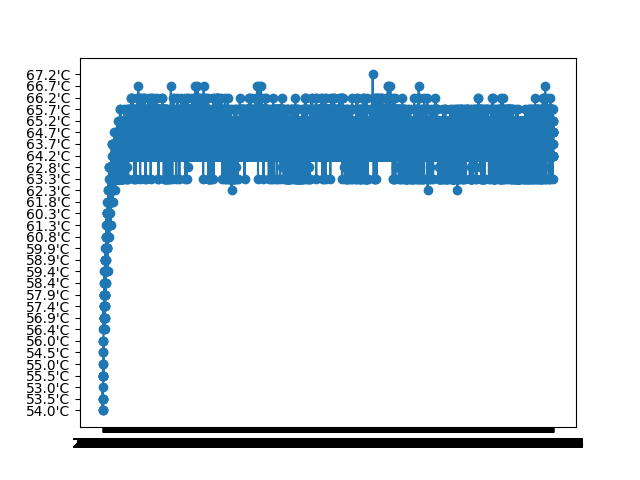
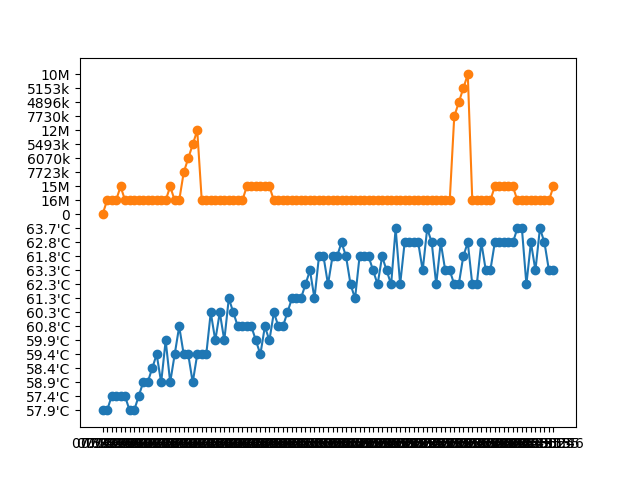
add

Changed region(s): [[0.0938, 0.125, 0.9062, 0.9375], [0.0312, 0.125, 0.125, 0.875]]

diff --git a/checker.py b/checker.py
@@ -8,8 +8,8 @@ import sys
 
 import subprocess
 
-command_str = ["iperf3 -c 192.168.100.3 -t 100 -u -b 1GB"] 
-test_command_pd = subprocess.Popen(command_str, shell=True, stdin=subprocess.PIPE, stdout=subprocess.PIPE, text=True)
+#command_str = ["iperf3 -c 192.168.100.3 -t 100 -u -b 1GB"] 
+#test_command_pd = subprocess.Popen(command_str, shell=True, stdin=subprocess.PIPE, stdout=subprocess.PIPE, text=True)
 
 
 def main():
@@ -68,10 +68,10 @@ def main():
         fp.write("{},{},{},{},{},{},{},{},{},{},{}\n".format(datetime.now().strftime('%H:%M:%S'), temp, cpu[0],cpu[1],cpu[2],cpu[3],clock, volts, memory_percent, dstat_json["net"]["recv"], dstat_json["net"]["send"]))
         fp.close()
         #print(test_command_pd.poll())
-        if(test_command_pd.poll()==0):
-           proc.kill()
-           time.sleep(1) 
-           sys.exit()
+        #if(test_command_pd.poll()==0):
+        #   proc.kill()
+        #   time.sleep(1) 
+        #   sys.exit()
 
 # シェルコマンドを実行する関数
 def run_shell_command(command_str):

diff --git a/glafh.py b/glafh.py
@@ -5,7 +5,7 @@ import pandas as pd
 import matplotlib.pyplot as plt
  
 #CSVファイルをUTF-8形式で読み込む
-data = pd.read_csv('20230912.csv',encoding = 'sjis')
+data = pd.read_csv('20230913.csv',encoding = 'sjis')
 #dataを出力
 print(data)
 
@@ -14,12 +14,12 @@ print(data["temp"][0])
 	
 
 first_column_data = data["time"]
-second_column_data =data["temp"]
-
+second_column_data =data["temp"] 
 #plt.xlabel(input_csv.keys()[0])
 #plt.ylabel(input_csv.keys()[1])
 
 fig = plt.figure()
 plt.plot(first_column_data, second_column_data, linestyle='solid', marker='o')
+plt.plot(first_column_data, data["net_send"] , linestyle='solid', marker='o')
 #plt.show()
 fig.savefig("img.png")
